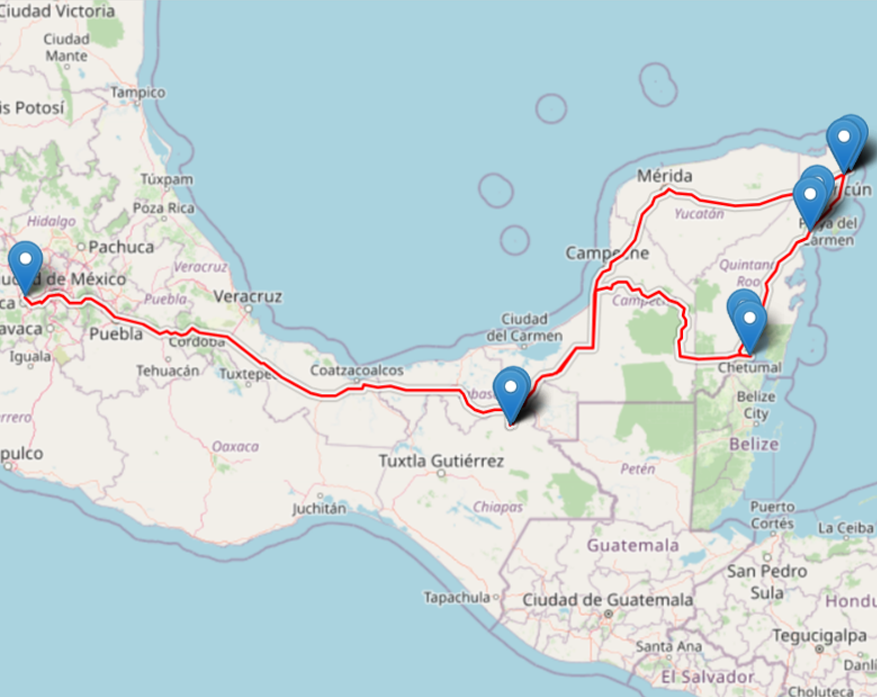
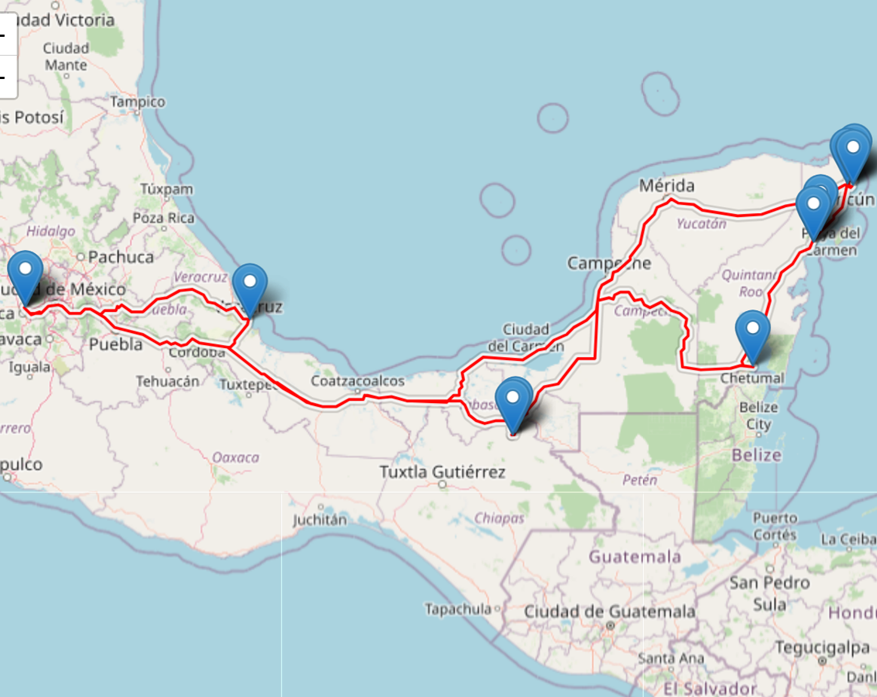
Cambie las fotos, cambie de orden el costo, cambie la ubicacion del mapa de punto partida, agregue el itinerario el acuario de veracruz

diff --git a/index.html b/index.html
@@ -111,7 +111,7 @@
          <!-- banner section end -->
       </div>
       <!-- header section end -->
-      <!-- ruta section start -->
+      <!-- lugares section start -->
       <div class="services_section layout_padding" id="lugares">
          <div class="container">
             <h1 class="services_taital" >Lugares a visitar</h1>
@@ -154,16 +154,16 @@
 
                <div class="row">
                 <div class="col-md-4">
+                  <div><img src="images/img-8.png" class="services_img"></div>
+                  <div class="btn_main active"><a href="#">Isla Mujeres</a></div>
+                </div>
+                <div class="col-md-4">
+                  <div><img src="images/img-9.png" class="services_img"></div>
+                  <div class="btn_main"><a href="#">Playa Caracol</a></div>
+                </div>
+                <div class="col-md-4">
                    <div><img src="images/img-7.png" class="services_img"></div>
-                   <div class="btn_main"><a href="#">Acuario de Veracruz</a></div>
-                </div>
-                <div class="col-md-4">
-                   <div><img src="images/img-8.png" class="services_img"></div>
-                   <div class="btn_main active"><a href="#">Isla Mujeres</a></div>
-                </div>
-                <div class="col-md-4">
-                   <div><img src="images/img-9.png" class="services_img"></div>
-                   <div class="btn_main"><a href="#">Playa Caracol</a></div>
+                   <div class="btn_main"><a href="#">Acuario de Veracruz</a></div>                  
                 </div>
                </div>               
 
@@ -173,7 +173,7 @@
             </div>
          </div>
       </div>
-      <!-- ruta section end -->
+      <!-- lugares section end -->
 
 
 
@@ -191,6 +191,25 @@
 
 
 
+      <!-- Costo section start -->
+      <div class="choose_section layout_padding">
+        <div class="container">
+           <h1 class="choose_taital" id="#costo" name="#costo">Costo</h1>
+           <p class="choose_text">Este es un viaje sin fines de lucro por lo que solo se cobra el pasaje, la intención es salir de vacaciones con nuestras familias, cabe señalar que los asientos serán distribuidos conforme se vayan iscribiendo y pagando el 50% de cada persona, el pasaje por persona es de <strong>$3,500</strong>, en autobus, con aire acondicionado, TV y baño. Nota: el costo del viaje solo incluye el pasaja, cada lugar tiene diferentes atracciones las cuales no estan incluidas ya sea hospedaje, entrada a parques o comidas.</p>
+           <!--div class="read_bt_1"><a href="#">Read More</a></div-->
+           <div class="newsletter_box">
+              <h1 class="let_text">¿Cómo llegar al punto de partida?</h1>
+              <!--div class="getquote_bt"><a href="#">Get A Quote</a></div--> 
+              <p>El punto de partida es en San Diego de los Padres Cuexcontitlán, en la parte Norte del Municipio de Toluca a 10 minutos de plaza Santín</p>   
+           </div>                     
+        </div>
+        <div class="container">
+           <!--iframe src="https://www.google.com/maps/embed?pb=!1m14!1m8!1m3!1d235.2469058719015!2d-99.61562999383584!3d19.371296161666336!3m2!1i1024!2i768!4f13.1!3m3!1m2!1s0x85d275490e2a63f3%3A0x927d9449df55fab6!2sFotografia%20y%20video%20el%20profe!5e0!3m2!1ses-419!2smx!4v1705109326310!5m2!1ses-419!2smx" width="100%" height="400" style="border:0;" allowfullscreen="True" loading="lazy" referrerpolicy="no-referrer-when-downgrade"></iframe-->
+           <iframe src="https://www.google.com/maps/embed?pb=!1m18!1m12!1m3!1d7528.120799045852!2d-99.61027025779106!3d19.36653722377655!2m3!1f0!2f0!3f0!3m2!1i1024!2i768!4f13.1!3m3!1m2!1s0x85d2744c07d6604d%3A0xb46256ccf1d6069b!2sParroquia%20de%20San%20Diego%20de%20los%20Padres!5e0!3m2!1ses-419!2smx!4v1705701194084!5m2!1ses-419!2smx" width="100%" height="400" style="border:0;" allowfullscreen="" loading="lazy" referrerpolicy="no-referrer-when-downgrade"></iframe>        
+         </div>
+     </div>
+     <!-- Costo section end -->      
+
 
       
       <!-- ruta section start -->
@@ -200,7 +219,7 @@
                <div class="col-md-6">
                   <div class="about_taital_main">
                      <h1 class="about_taital" id="#ruta" name="ruta">Ruta y mapa interactivo</h1>
-                     <p class="about_text">El punto de partida es San Diego de los Padres Cuexcontitlán, Toluca, Mexico, la salida es a las 20:00, viajaremos toda la noche hasta Palenque, consulta el mapa interactivo un poco mas abajo. El total del recorrido es de <strong>2957.9 km</strong>, si hicieramos todo el recorrido sin parar nos tardariamos un tiempo aproximado de <strong>42 horas</strong> en auto.</p>
+                     <p class="about_text">El punto de partida es San Diego de los Padres Cuexcontitlán, Toluca, Mexico, la salida es a las 20:00, viajaremos toda la noche hasta Palenque, consulta el mapa interactivo un poco mas abajo. El total del recorrido es de <strong>3922 Km</strong>, si hicieramos todo el recorrido sin parar nos tardariamos un tiempo aproximado de <strong>54 horas</strong> en auto.</p>
                      <!--div class="readmore_bt"><a href="#">Read More</a></div-->
                   </div>
                </div>
@@ -481,21 +500,21 @@
                <svg class="bd-placeholder-img flex-shrink-0 me-2 rounded" width="32" height="32" xmlns="http://www.w3.org/2000/svg" role="img" aria-label="Placeholder: 32x32" preserveAspectRatio="xMidYMid slice" focusable="false"><title>Placeholder</title><rect width="100%" height="100%" fill="#42F312"></rect><text x="50%" y="50%" fill="#007bff" dy=".3em"></text></svg>
               <p class="pb-3 mb-0 small lh-sm border-bottom">
                 <strong class="d-block text-gray-dark">@Salida</strong>
-                9:00 Cancún hotel
+                5:00 Cancún hotel
               </p>
             </div>
             <div class="d-flex text-body-secondary pt-3">
               <svg class="bd-placeholder-img flex-shrink-0 me-2 rounded" width="32" height="32" xmlns="http://www.w3.org/2000/svg" role="img" aria-label="Placeholder: 32x32" preserveAspectRatio="xMidYMid slice" focusable="false"><title>Placeholder</title><rect width="100%" height="100%" fill="#e83e8c"></rect><text x="50%" y="50%" fill="#FF0000" dy=".3em"></text></svg>
               <p class="pb-3 mb-0 small lh-sm border-bottom">
                 <strong class="d-block text-gray-dark">@Llegada</strong>
-                9:30 Desayuno en mercado 28
+                7:00 Desayuno en mercado 28
               </p>
             </div>
             <div class="d-flex text-body-secondary pt-3">
                <svg class="bd-placeholder-img flex-shrink-0 me-2 rounded" width="32" height="32" xmlns="http://www.w3.org/2000/svg" role="img" aria-label="Placeholder: 32x32" preserveAspectRatio="xMidYMid slice" focusable="false"><title>Placeholder</title><rect width="100%" height="100%" fill="#42F312"></rect><text x="50%" y="50%" fill="#007bff" dy=".3em"></text></svg>
                 <p class="pb-3 mb-0 small lh-sm border-bottom">
                   <strong class="d-block text-gray-dark">@Salida</strong>
-                  11:00 Regreso final a Toluca
+                  9:00 Salida rumbo al Acuario de Veracruz
                 </p>
             </div>
 
@@ -506,14 +525,26 @@
           </div>           
 
           <div class="my-3 p-3 bg-body rounded shadow-sm">
-            <h6 class="border-bottom pb-2 mb-0">29 de marzo de 2024</h6>
+            <h6 class="border-bottom pb-2 mb-0">31 de marzo de 2024</h6>
             <div class="d-flex text-body-secondary pt-3">
                <svg class="bd-placeholder-img flex-shrink-0 me-2 rounded" width="32" height="32" xmlns="http://www.w3.org/2000/svg" role="img" aria-label="Placeholder: 32x32" preserveAspectRatio="xMidYMid slice" focusable="false"><title>Placeholder</title><rect width="100%" height="100%" fill="#e83e8c"></rect><text x="50%" y="50%" fill="#FF0000" dy=".3em"></text></svg>
               <p class="pb-3 mb-0 small lh-sm border-bottom">
                 <strong class="d-block text-gray-dark">@Llegada</strong>
-                8:00 San Diego de los Padres
+                6:00 Acuario Veracruz
               </p>
             </div>
+
+
+
+            <div class="d-flex text-body-secondary pt-3">
+              <svg class="bd-placeholder-img flex-shrink-0 me-2 rounded" width="32" height="32" xmlns="http://www.w3.org/2000/svg" role="img" aria-label="Placeholder: 32x32" preserveAspectRatio="xMidYMid slice" focusable="false"><title>Placeholder</title><rect width="100%" height="100%" fill="#42F312"></rect><text x="50%" y="50%" fill="#007bff" dy=".3em"></text></svg>
+               <p class="pb-3 mb-0 small lh-sm border-bottom">
+                 <strong class="d-block text-gray-dark">@Salida</strong>
+                 15:00 Salida final a Toluca
+               </p>
+           </div>
+            
+
               
             <small class="d-block text-end mt-3">
                 <a href="#">Viajes "El profe"</a>
@@ -540,40 +571,76 @@
 
 
 
-
-
-
-
-
-
-      <!-- blog section start -->
+      <!-- videos section start -->
       <div class="blog_section layout_padding">
         <div class="container">
-           <h1 class="blog_taital">Video</h1>
-           <p class="blog_text">Mira este video para que puedas conocer Bacalar y la laguna de 7 colores en video</p>
+           <h1 class="blog_taital">Video de Palenque</h1>
+           <p class="blog_text">Mira este video para que puedas conocer Palenque y un poco de su historia</p>
            <div class="play_icon_main">
-              <div class="play_icon"><a href="https://www.youtube.com/watch?v=qvFtpWpX13U&ab_channel=Viajefest" target="_blank"><img src="images/play-icon.png"></a></div>
+              <div class="play_icon"><a href="https://www.youtube.com/watch?v=-KkZIFuLTCs&ab_channel=DavidFuentes" target="_blank"><img src="images/play-icon.png"></a></div>
            </div>
         </div>
      </div>
-     <!-- blog section end -->      
-      <!-- Costo section start -->
-      <div class="choose_section layout_padding">
-         <div class="container">
-            <h1 class="choose_taital" id="#costo" name="#costo">Costo</h1>
-            <p class="choose_text">Este es un viaje sin fines de lucro por lo que solo se cobra el pasaje, la intención es salir de vacaciones con nuestras familias, cabe señalar que los asientos serán distribuidos conforme se vayan iscribiendo y pagando el 50% de cada persona, el pasaje por persona es de <strong>$3,500</strong>, en autobus, con aire acondicionado, TV y baño. </p>
-            <!--div class="read_bt_1"><a href="#">Read More</a></div-->
-            <div class="newsletter_box">
-               <h1 class="let_text">¿Cómo llegar al punto de partida?</h1>
-               <!--div class="getquote_bt"><a href="#">Get A Quote</a></div--> 
-               <p>El punto de partida es en San Diego de los Padres Cuexcontitlán, en la parte Norte del Municipio de Toluca a 10 minutos de plaza Santín</p>   
-            </div>                     
+
+
+      <div class="blog_section layout_padding">
+      <div class="container">
+         <h1 class="blog_taital">Video de Bacalar y Laguna de 7 colores</h1>
+         <p class="blog_text">Mira este video para que puedas conocer Bacalar y la laguna de 7 colores en video</p>
+         <div class="play_icon_main">
+            <div class="play_icon"><a href="https://www.youtube.com/watch?v=qvFtpWpX13U&ab_channel=Viajefest" target="_blank"><img src="images/play-icon.png"></a></div>
          </div>
-         <div class="container">
-            <iframe src="https://www.google.com/maps/embed?pb=!1m14!1m8!1m3!1d235.2469058719015!2d-99.61562999383584!3d19.371296161666336!3m2!1i1024!2i768!4f13.1!3m3!1m2!1s0x85d275490e2a63f3%3A0x927d9449df55fab6!2sFotografia%20y%20video%20el%20profe!5e0!3m2!1ses-419!2smx!4v1705109326310!5m2!1ses-419!2smx" width="100%" height="400" style="border:0;" allowfullscreen="True" loading="lazy" referrerpolicy="no-referrer-when-downgrade"></iframe>
-          </div>
       </div>
-      <!-- Costo section end -->
+      </div>     
+
+
+
+      <div class="blog_section layout_padding">
+      <div class="container">
+         <h1 class="blog_taital">Video de Xel-Ha</h1>
+         <p class="blog_text">Mira este video para que puedas conocer Xel-Ha y todos sus atractivos</p>
+         <div class="play_icon_main">
+            <div class="play_icon"><a href="https://www.youtube.com/watch?v=c2BvleD8Rm0&ab_channel=AnnieVersus" target="_blank"><img src="images/play-icon.png"></a></div>
+         </div>
+      </div>
+      </div>   
+
+
+      <div class="blog_section layout_padding">
+        <div class="container">
+           <h1 class="blog_taital">Video de Isla mujeres</h1>
+           <p class="blog_text">Mira este video para que puedas conocer Isla Mujeres</p>
+           <div class="play_icon_main">
+              <div class="play_icon"><a href="https://www.youtube.com/watch?v=rEBfxrBKf1I&ab_channel=alanxelmundo" target="_blank"><img src="images/play-icon.png"></a></div>
+           </div>
+        </div>
+     </div>
+
+
+      <div class="blog_section layout_padding">
+      <div class="container">
+         <h1 class="blog_taital">Video de la playa Caracol, Cancún</h1>
+         <p class="blog_text">Mira este video para que puedas conocer  playa Caracol, Cancun</p>
+         <div class="play_icon_main">
+            <div class="play_icon"><a href="https://www.youtube.com/watch?v=9KcwuWPXQIk&ab_channel=Mariofr%C3%ADendtips" target="_blank"><img src="images/play-icon.png"></a></div>
+         </div>
+      </div>
+      </div>       
+
+
+      <div class="blog_section layout_padding">
+        <div class="container">
+           <h1 class="blog_taital">Video de Acuario de Veracruz</h1>
+           <p class="blog_text">Mira este video para que puedas conocer el acuario de Veracruz</p>
+           <div class="play_icon_main">
+              <div class="play_icon"><a href="https://www.youtube.com/watch?v=qIQLgcBLbmM&ab_channel=Aventurando" target="_blank"><img src="images/play-icon.png"></a></div>
+           </div>
+        </div>
+     </div>      
+
+
+     <!-- videos section end -->      
+
       <!-- footer section start -->
       <div class="footer_section layout_padding">
          <div class="container">
@@ -609,17 +676,18 @@
    <script>
     // Coordenadas
     var coordinates = [
-        [19.371116561747115, -99.61539995233255],
-        [17.48476080855424, -92.04586038524825],
-        [17.508356686773286, -91.98970773903648],
-        [18.49293608323677, -88.29898523695347],
-        [18.67481135479459, -88.38897783040679],
-        [20.319078597632142, -87.37354899178126],
-        [20.48869255310088, -87.2521044662265],
-        [21.159678952846456, -86.82599279796102],
-        [21.237511464146532, -86.73537853495398],
-        [21.159678952846456, -86.82599279796102],
-        [17.48476080855424, -92.04586038524825]
+        [19.371116561747115, -99.61539995233255], //San Diego
+        [17.48476080855424, -92.04586038524825], //Palenque
+        [17.508356686773286, -91.98970773903648], //ciudad palenque
+        [18.49293608323677, -88.29898523695347], //laguna 7 colores        
+        [20.319078597632142, -87.37354899178126],// hotel bacalar, preguntar por la ubicacion correcta
+        [20.315634183980606, -87.3682698552741],//hotel xel ha, preguntar por la ubicacion correcta
+        [20.48869255310088, -87.2521044662265],//cenote azul, preguntar por la ubicacion correcta
+        [21.160297178552913, -86.82625373620954], //Hotel carrillos
+        [21.237511464146532, -86.73537853495398], //Isla mujeres
+        [21.136868658572855, -86.74672597966412], //playa caracol
+        [19.1871798954794, -96.12270935229444], //Acuario de veracruz
+        [19.371116561747115, -99.61539995233255] //San Diego
     ];
 
     // Crear mapa centrado en la primera coordenada
